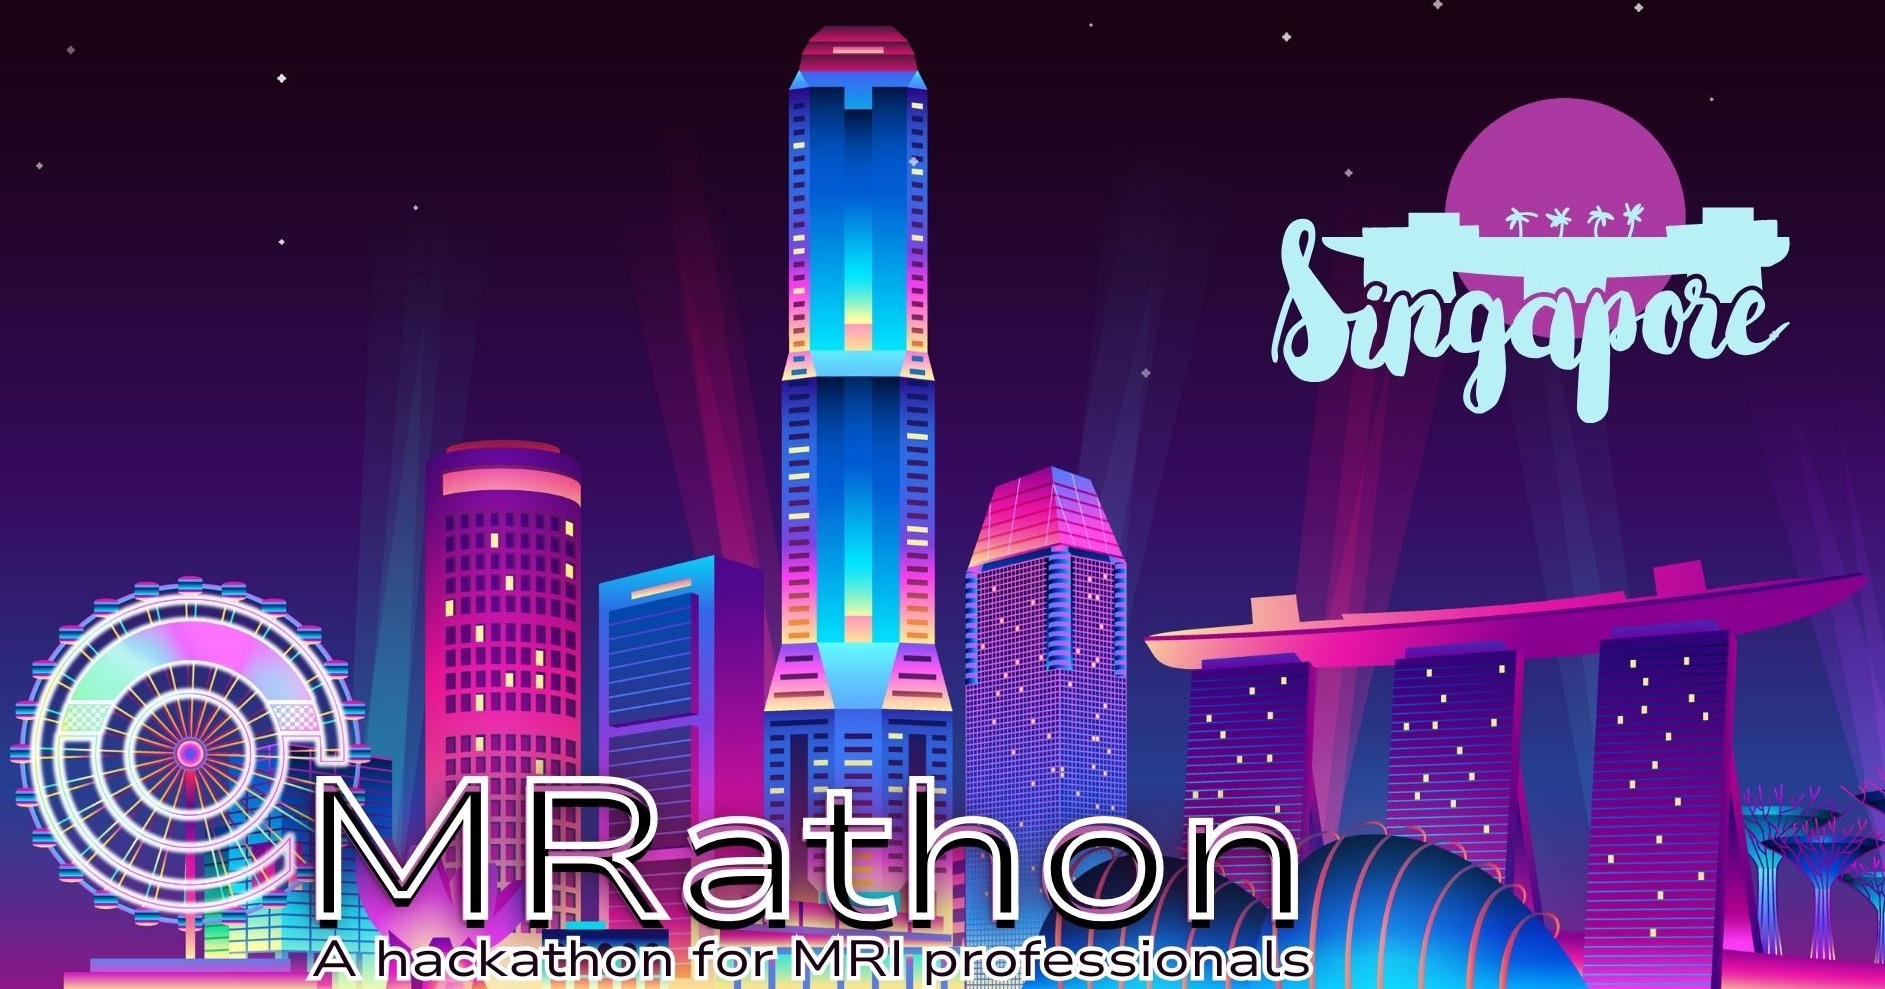
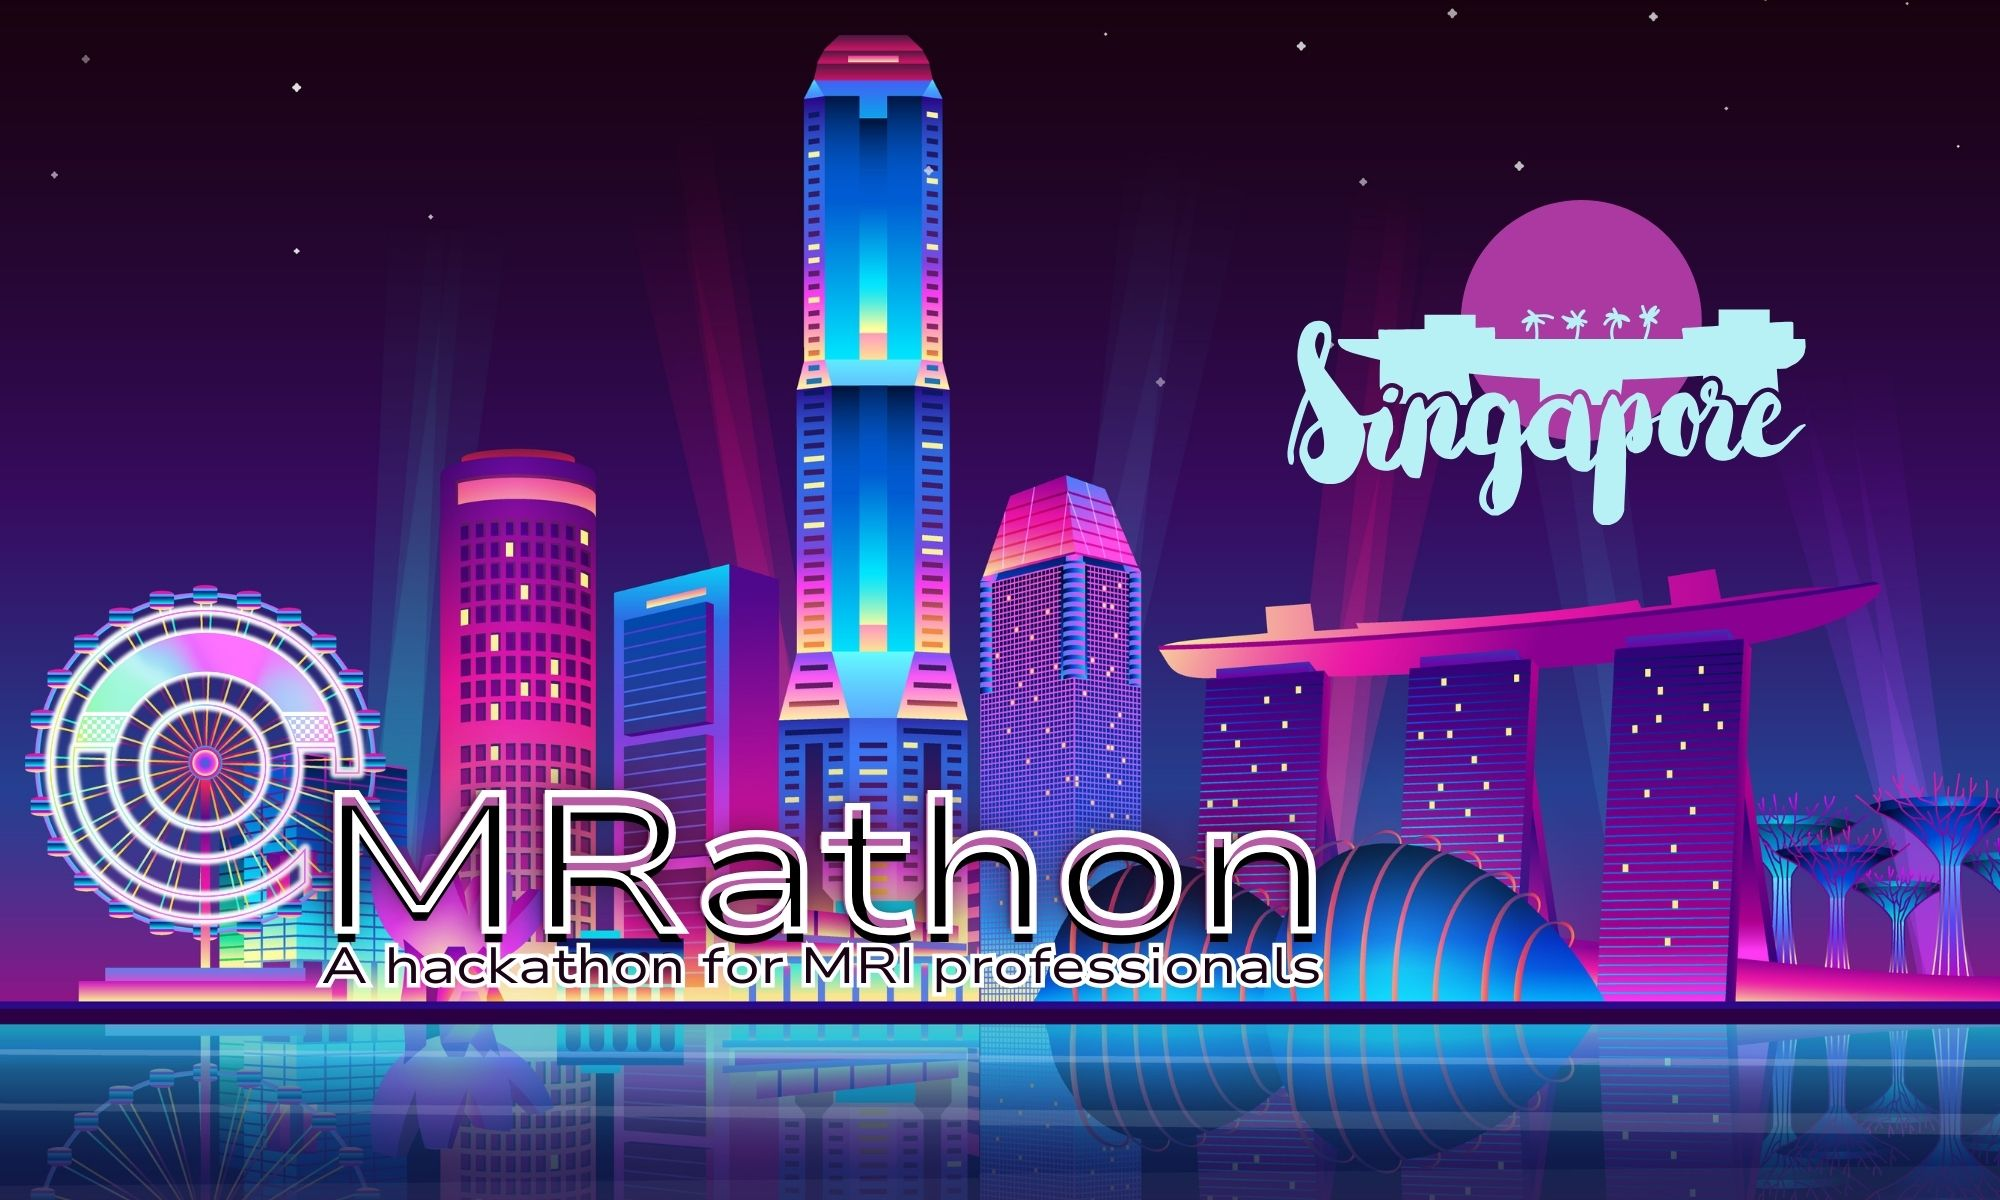
update

diff --git a/stylesheets/css/base.css b/stylesheets/css/base.css
@@ -364,3 +364,17 @@ span.lineno {
 .gu { color: #75715e; } /* Generic.Subheading & Diff Unified/Comment? */
 .gd { color: #f92672; } /* Generic.Deleted & Diff Deleted */
 .gi { color: #a6e22e; } /* Generic.Inserted & Diff Inserted */
+
+#intro{background-image: url("/img/mrathon_new.jpg") !important;
+	background-size: cover;
+	background-position: center;
+	height: 100vh;
+	background-repeat: no-repeat;}
+
+	@media only screen and (max-width: 767px) {
+		#intro {background-size: contain; height: auto; width: auto;}
+	}
+
+	@media only screen and (min-width: 768px) and (max-width: 950px) {
+		#intro {background-size: contain; height: 600px;}
+	}

diff --git a/_posts/2000-01-02-activities.md b/_posts/2000-01-02-activities.md
@@ -7,17 +7,19 @@ iconclr: '#428bca'
 titleclr: '#428bca'
 ---
 
-# A hackathon for comparable MRI
+# A hackathon for increasing MRI accessibility
 
-<p style ="text-align: center; font-weight: bold; font-size:24px;"> To promote reproducibility, collaboration, and standards through open source practices in magnetic resonance. From scanner to publication.</p>
+### 2-3 May 2024
+
+<p style ="text-align: center; font-weight: bold; font-size:24px;"> We organized MRathon 2024 in collaboration with the <a href="https://ezymri-nerdfest.sciencesconf.org/" style="color:blue;"> ezyMRI NerdFest </a>, focusing on the increasing the accessibility of MRI through open-source and vendor-neutral pulse sequence programming.</p>
 
 <center>
-<p style ="text-align: center;  font-size:20px;">This year's MRathon aims to bring together experts to share knowledge and collaborate on new solutions for ensuring consistency and comparability in MRI measurements. This includes efforts in image acquisition, reconstruction, post-processing, and publication.</p>
+<p style ="text-align: center;  font-size:20px;">MRathon aims to bring together experts to share knowledge and collaborate on new solutions for ensuring transparency and accessibility in MRI research.</p>
  </center>
 <hr>
- <h3>A stellar list of speakers</h3>
+ <h3>A stellar list of MRI experts</h3>
 
- <p style ="text-align: center;  font-size:20px;"> Each day of the event will kick off with presentations from experts who specialize in implementing cutting-edge research into open-source projects.</p>
+ <p style ="text-align: center;  font-size:20px;"> Experts who specialize in implementing cutting-edge research into open-source projects will be present during the hackathon to offer valuable insights on the latest developments in the vendor-neutral ecosystem. </p>
 
 <div class="team" style="margin-top:10px;">
 <div class="row" style="justify-content:center;">
@@ -41,6 +43,6 @@ titleclr: '#428bca'
 <center>
  <h3>A sprint to push boundaries for collective creativity</h3>
 
- <p style ="text-align: center;  font-size:20px;">Even though we do not anticipate an intense coding marathon after a busy ISMRM annual meeting, those who would like to work on a coding project are welcome to submit their project idea for making MRI reproducible!</p>
+ <p style ="text-align: center;  font-size:20px;">Participants who would like to work on a coding project are welcome to submit their project idea for making MRI research more accessible!</p>
 </center>
 

diff --git a/_posts/2000-01-03-tuesday.md b/_posts/2000-01-03-tuesday.md
@@ -8,14 +8,14 @@ titleclr: about
 ---
 
 
-<center><a href="https://donondanforth.com/"><h4>The Don on Danforth</h4></a></center>
+<center><a href="https://www.sutd.edu.sg/"><h4>Singapore University of Technology and Design</h4></a></center>
 
-<center><img style="width:500px;" src="https://donondanforth.com/wp-content/uploads/2022/11/mariposa.jpg"></center>
+<center><img style="width:500px;" src="https://ezymri-nerdfest.sciencesconf.org/data/pages/DysonLab1.jpg"></center>
 
-<p style ="text-align:center;">The Don on Danforth<br><a href="https://goo.gl/maps/5wgp8wq7Fewoj2Mw7">15 Chisholm Ave. <br> Toronto, ON, Canada</a></p>
+<p style ="text-align:center;">Dyson’s Lab 1 & 2 (2.313A & B, 66 pax)<br><a href="https://ezymri-nerdfest.sciencesconf.org/resource/page/id/4"> <br> 8 Somapah Rd, Singapore 487372 </a></p>
 
 <center>
-<iframe src="https://www.google.com/maps/embed?pb=!1m18!1m12!1m3!1d2885.0590357109813!2d-79.30552202330261!3d43.68853605014387!2m3!1f0!2f0!3f0!3m2!1i1024!2i768!4f13.1!3m3!1m2!1s0x89d4cd2606e2e89f%3A0x43afa0fd3cb64c29!2sThe%20Don%20on%20Danforth!5e0!3m2!1sen!2sca!4v1683213012164!5m2!1sen!2sca" width="600" height="450" style="border:0;" allowfullscreen="" loading="lazy" referrerpolicy="no-referrer-when-downgrade"></iframe>
+<iframe src="https://www.google.com/maps/embed?pb=!1m18!1m12!1m3!1d3988.725162999336!2d103.96118357607843!3d1.3412579986460385!2m3!1f0!2f0!3f0!3m2!1i1024!2i768!4f13.1!3m3!1m2!1s0x31da3cd899f260cb%3A0x99becabc6d025518!2sSingapore%20University%20of%20Technology%20and%20Design%20(SUTD)!5e0!3m2!1sen!2sae!4v1706112065102!5m2!1sen!2sae" width="600" height="450" style="border:0;" allowfullscreen="" loading="lazy" referrerpolicy="no-referrer-when-downgrade"></iframe>
 </center>
 <!-- <button class="accordion" onclick="collapsable()">Program at a glance (click to expand)</button>
 

diff --git a/_posts/2000-01-02-adreg.md b/_posts/2000-01-02-adreg.md
@@ -1,5 +1,5 @@
 ---
-title: "Party"
+title: "Registration"
 bg: '#000000'
 color: white
 fa-icon: check
@@ -9,19 +9,14 @@ titleclr: '#000000'
 
 
 
-<center><h2>Get ready to rock the house and ignite the spirit of MRathon 2023 with an electrifying, mind-blowing extravaganza!</h2></center>
+<center><h2>Planning is underway, stay tuned!</h2></center>
 
-<center><video muted autoplay controls loop style="width:800px;">
-    <source src="img/party.mp4" type="video/mp4">
-</video></center>
-
-<center><h2>After the annual meeting, to unwind and take a break, we are throwing a party at a venue that hosted Drake! <br>Not for the rhyme, for real 😎 </h2></center>
 
 ***
 
-<button class="accordion" onclick="collapsable()">You can still register!</button>
+<button class="accordion" onclick="collapsable()">Registration form will be available soon</button>
 <div class="panel">
-  <center><iframe src="https://docs.google.com/forms/d/e/1FAIpQLSeLM_E_zsjW0vMGRjihxXOjb0vyoWVYUyWz-_5IU2w-MsXTqg/viewform?embedded=true" width="640" height="1982" frameborder="0" marginheight="0" marginwidth="0">Loading…</iframe></center>
+ 
 </div>
 
 ***

diff --git a/_posts/2000-01-06-carousel.md b/_posts/2000-01-06-carousel.md
@@ -7,7 +7,7 @@ iconclr: '#486a89'
 titleclr: '#486a89'
 ---
 
-<center><h3>MRathon 2023 projects</h3></center>
+<center><h3>Projects from the last year</h3></center>
 
 
 <div class="row partners">
@@ -44,7 +44,7 @@ titleclr: '#486a89'
   </div>
 
 
-<center><h3>Projects from previous MRathon(s)</h3></center>
+<center><h3>Projects from earlier MRathon(s)</h3></center>
 <div class="row">
   
   <div class="col s4">

diff --git a/_posts/2000-01-01-intro.md b/_posts/2000-01-01-intro.md
@@ -1,9 +1,4 @@
 ---
 title: "home"
-bg: intro
 color: white
-style: center
 ---
-![](img/mrathon_new.jpg)
-
-### June 9-10, 2023, Toronto, ON, Canada
